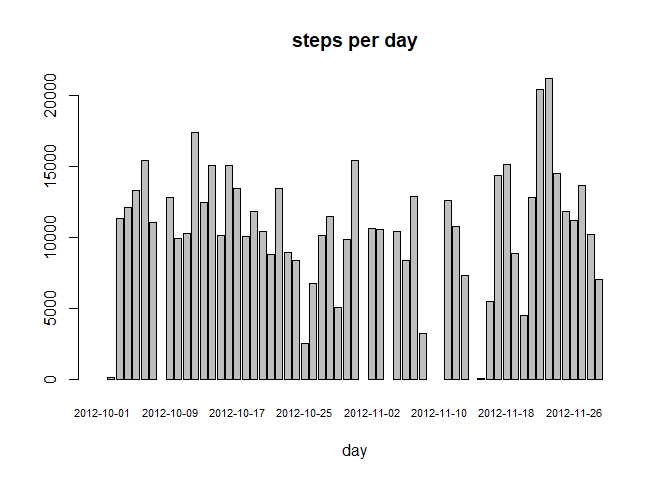
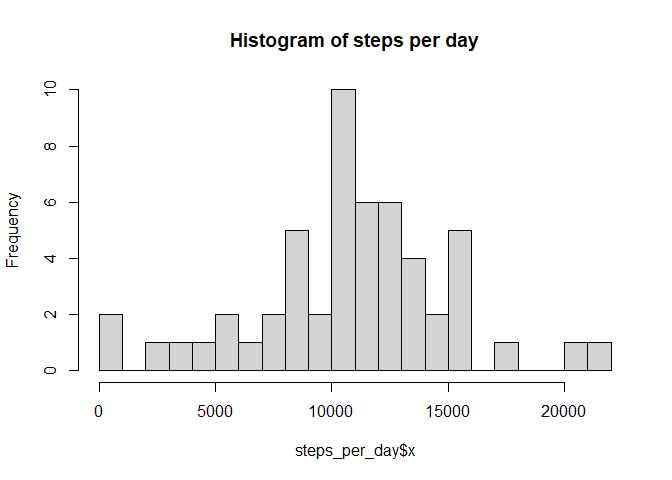
Correct graph.
It should actually have been a histogram.

diff --git a/PA1_template.html b/PA1_template.html
@@ -385,9 +385,8 @@ head(activity)</code></pre>
 <pre class="r"><code>steps_per_day&lt;-aggregate(x=activity$steps, by=activity[&quot;date&quot;], FUN=sum)
 mean_steps_per_day&lt;-mean(steps_per_day$x, na.rm=T)
 median_steps_per_day&lt;-median(steps_per_day$x, na.rm = TRUE)
-barplot(steps_per_day$x, names.arg=steps_per_day$date,xlab=&quot;day&quot;, 
-        cex.names=&quot;.7&quot;, main=&quot;steps per day&quot;)</code></pre>
[1 lines of base64/hex data omitted]
+hist(steps_per_day$x, breaks=30, main=&quot;Histogram of steps per day&quot;)</code></pre>
[1 lines of base64/hex data omitted]
 <p>The mean total number of steps taken per day is 1.076618910^{4} and the median is 1.076510^{4}.</p>
 </div>
 <div id="what-is-the-average-daily-activity-pattern" class="section level2">
@@ -420,9 +419,8 @@ activity_complete&lt;-mutate(grouped_by_interval,
 steps_per_day2&lt;-aggregate(x=activity_complete$completeSteps, 
                          by=activity_complete[&quot;date&quot;], FUN=sum)
 
-barplot(steps_per_day2$x, names.arg=steps_per_day$date,xlab=&quot;day&quot;, 
-        cex.names=&quot;.7&quot;, main=&quot;steps per day with imputed missing values&quot;)</code></pre>
[1 lines of base64/hex data omitted]
+hist(steps_per_day2$x, breaks=30, main= &quot;histogram of steps per day with imputed missing values&quot;)</code></pre>
[1 lines of base64/hex data omitted]
 <pre class="r"><code>head(activity_complete)</code></pre>
 <pre><code>## # A tibble: 6 x 4
 ## # Groups:   interval [6]

diff --git a/PA1_template.md b/PA1_template.md
@@ -33,8 +33,7 @@ head(activity)
 steps_per_day<-aggregate(x=activity$steps, by=activity["date"], FUN=sum)
 mean_steps_per_day<-mean(steps_per_day$x, na.rm=T)
 median_steps_per_day<-median(steps_per_day$x, na.rm = TRUE)
-barplot(steps_per_day$x, names.arg=steps_per_day$date,xlab="day", 
-        cex.names=".7", main="steps per day")
+hist(steps_per_day$x, breaks=30, main="Histogram of steps per day")
 ```
 
 ![](PA1_template_files/figure-html/unnamed-chunk-2-1.png)<!-- -->
@@ -79,8 +78,7 @@ activity_complete<-mutate(grouped_by_interval,
 steps_per_day2<-aggregate(x=activity_complete$completeSteps, 
                          by=activity_complete["date"], FUN=sum)
 
-barplot(steps_per_day2$x, names.arg=steps_per_day$date,xlab="day", 
-        cex.names=".7", main="steps per day with imputed missing values")
+hist(steps_per_day2$x, breaks=30, main= "histogram of steps per day with imputed missing values")
 ```
 
 ![](PA1_template_files/figure-html/unnamed-chunk-3-1.png)<!-- -->
